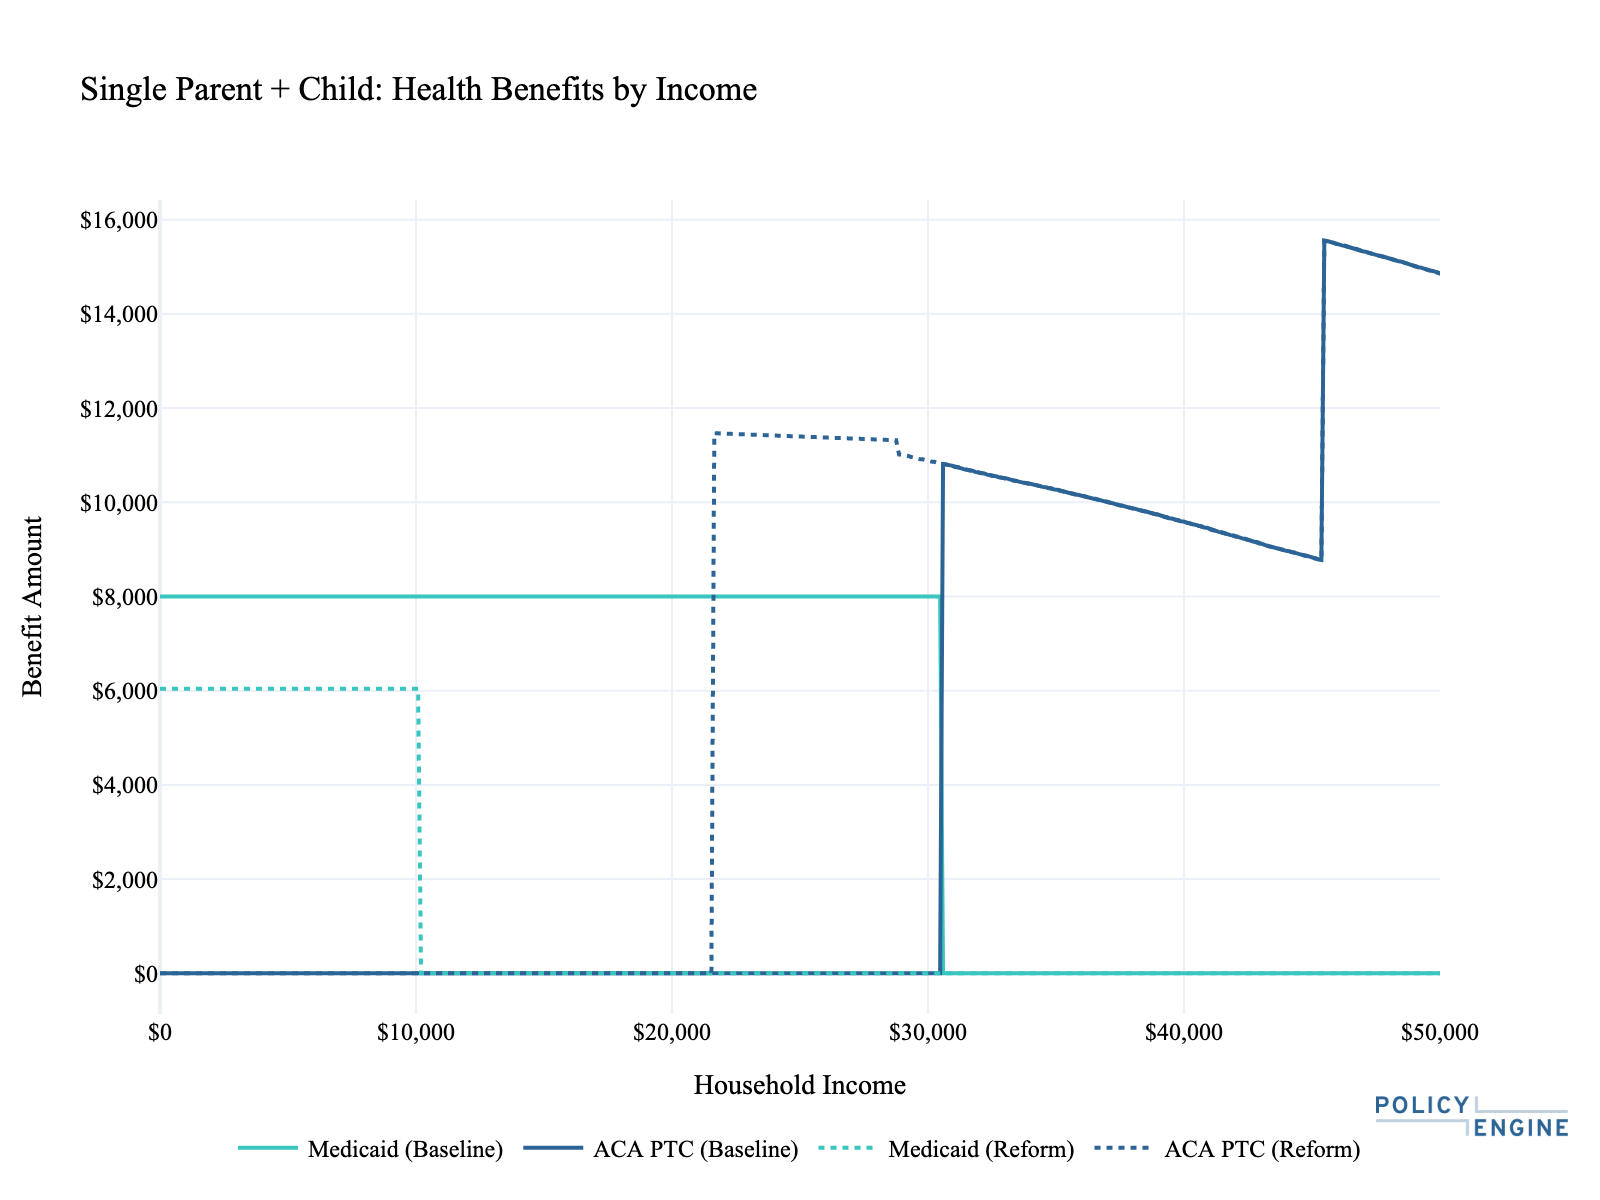
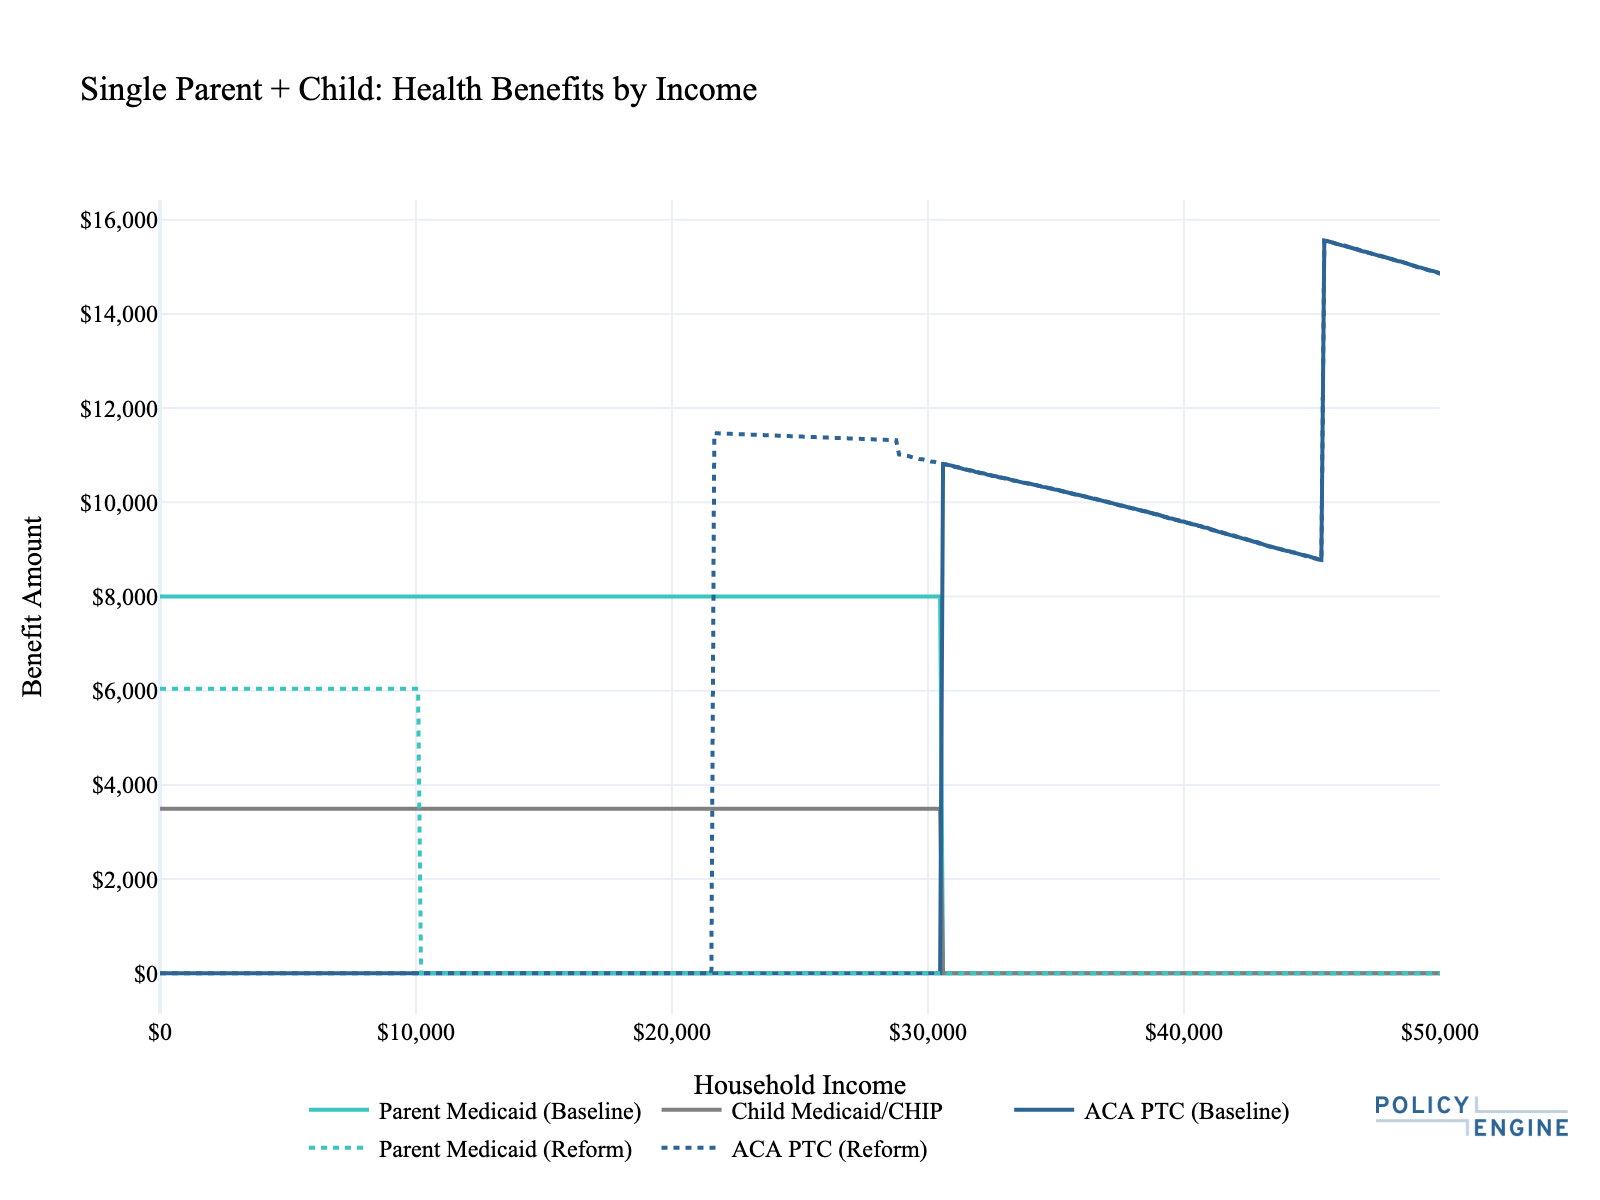
Add tables and update charts for Utah HB 15 blog post
- Add Table 1 showing single adult health benefits at select income levels
- Add Table 2 showing parent+child health benefits including Child Medicaid/CHIP
- Update charts with 500 data points for accurate visualization
- Include CHIP in parent+child chart

Changed region(s): [[0.1875, 0.925, 0.6562, 0.9867], [0.0938, 0.6475, 0.5938, 0.6783], [0.6875, 0.925, 0.8438, 0.9867]]

diff --git a/app/src/data/posts/articles/utah-hb15-medicaid-expansion-repeal.md b/app/src/data/posts/articles/utah-hb15-medicaid-expansion-repeal.md
@@ -22,7 +22,17 @@ Consider a single adult in Utah. Under current law, adults earning up to 138% FP
 
 At $12,000/year (75% FPL), this adult currently receives Medicaid coverage. Under HB 15, they would lose this coverage and fall into the coverage gap—earning too little for ACA subsidies but no longer qualifying for Medicaid.
 
-At $18,000/year (112% FPL), that same adult could transition to ACA coverage, receiving ~$11,500 in premium tax credits.
+At $18,000/year (110% FPL), that same adult could transition to ACA coverage, receiving premium tax credits.
+
+**Table 1: Health Benefits for Single Adult in Utah (2027)**
+
+| Income | % FPL | Medicaid (Baseline) | Medicaid (Reform) | ACA PTC (Baseline) | ACA PTC (Reform) | Notes |
+|--------|-------|---------------------|-------------------|-------------------|------------------|-------|
+| $12,000 | 75% | $8,000 | $0 | $0 | $0 | Coverage gap |
+| $16,334 | 100% | $8,000 | $0 | $0 | $11,579 | FPL threshold |
+| $18,000 | 110% | $8,000 | $0 | $0 | $10,861 | ACA eligible |
+| $22,541 | 138% | $8,000 | $0 | $0 | $7,256 | Expansion limit |
+| $25,000 | 153% | $0 | $0 | $5,299 | $5,299 | Above expansion |
 
 The chart below shows how health benefits change across income levels for a single adult. Solid lines represent current law, while dotted lines show the reform scenario.
 
@@ -35,6 +45,18 @@ For a single parent with one child, the FPL threshold is higher (~$22,100 for a 
 A parent earning $15,000/year (68% FPL for a family of two) would fall into the coverage gap under HB 15. The parent would no longer receive ~$8,000 in annual Medicaid benefits and would not qualify for ACA subsidies at this income level. Their child, however, remains covered through Medicaid/CHIP—children's eligibility is unaffected by the expansion repeal.
 
 At higher incomes (above 100% FPL for their family size), parents can transition to ACA subsidies while children remain on Medicaid/CHIP.
+
+**Table 2: Health Benefits for Single Parent + Child in Utah (2027)**
+
+| Income | % FPL | Parent Medicaid (Baseline) | Parent Medicaid (Reform) | Child Medicaid/CHIP | ACA PTC (Baseline) | ACA PTC (Reform) | Notes |
+|--------|-------|---------------------------|-------------------------|---------------------|-------------------|------------------|-------|
+| $15,000 | 68% | $8,000 | $0 | $3,495 | $0 | $0 | Coverage gap for parent |
+| $22,138 | 100% | $8,000 | $0 | $3,495 | $0 | $11,457 | FPL threshold |
+| $25,000 | 113% | $8,000 | $0 | $3,495 | $0 | $9,187 | ACA eligible |
+| $30,550 | 138% | $8,000 | $0 | $3,495 | $0 | $4,786 | Expansion limit |
+| $35,000 | 158% | $0 | $0 | $3,495 | $1,252 | $1,252 | Above expansion |
+
+The chart below shows how health benefits change across income levels for a single parent with one child. The child's Medicaid/CHIP coverage remains constant across all income levels regardless of the reform.
 
 ![Single Parent + Child: Health Benefits by Income](/assets/posts/utah-hb15-parent-child.png)
 
